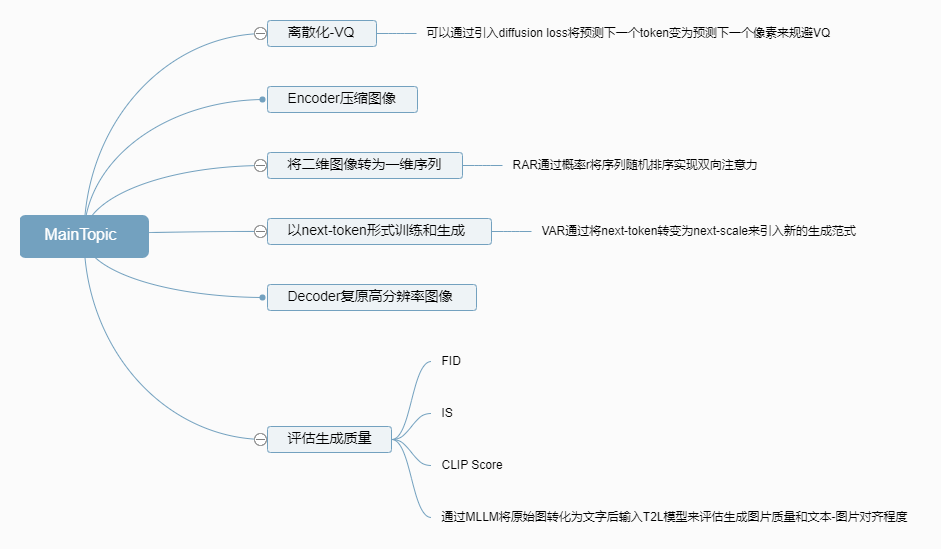
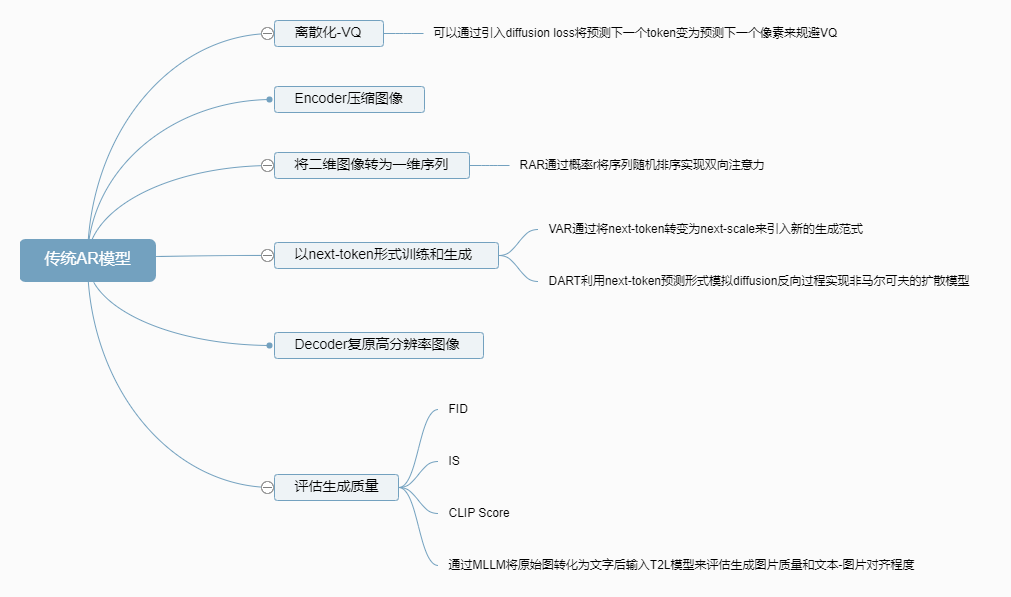
add pic and paper

diff --git a/pages/posts/Paper reading=t2l models.md b/pages/posts/Paper reading=t2l models.md
@@ -168,8 +168,8 @@ $$ p(r_1, r_2, \dots, r_K) = \prod_{k=1}^{K} p(r_k \mid r_1, r_2, \dots, r_{k-1}
 其中每个自回归单元 $r_k \in [V]^{h_k \times w_k}$ 是尺度 $k$ 上的token映射，包含 $h_k \times w_k$ tokens，以及序列 $(r_1, r_2, \dots, r_{k-1})$ 作为 $r_k$ 的“前缀”。在第 $k$ 个自回归步骤中，所有分布在 $r_k$ 中的 $h_k \times w_k$ tokens 将被并行生成，条件是在 $r_k$ 的前缀及其关联的第 $k$ 位置嵌入映射上。这种“下一个尺度预测”的方法是我们定义的视觉自回归嵌入建模（VAR）的方法，如下图右侧所示。请注意，在VAR的训练过程中，使用块状因果注意力掩码确保每个 $r_k$ 只能关注其前缀 $r_{\leq k}$。在推理阶段，kv缓存可以使用，不需要掩码。
 ![alt text](./image-33.png)
 
-
-
+对上述文章简单做了一个汇总和整理的导图如下：
+![alt text](./image-34.png)
 
 
 
